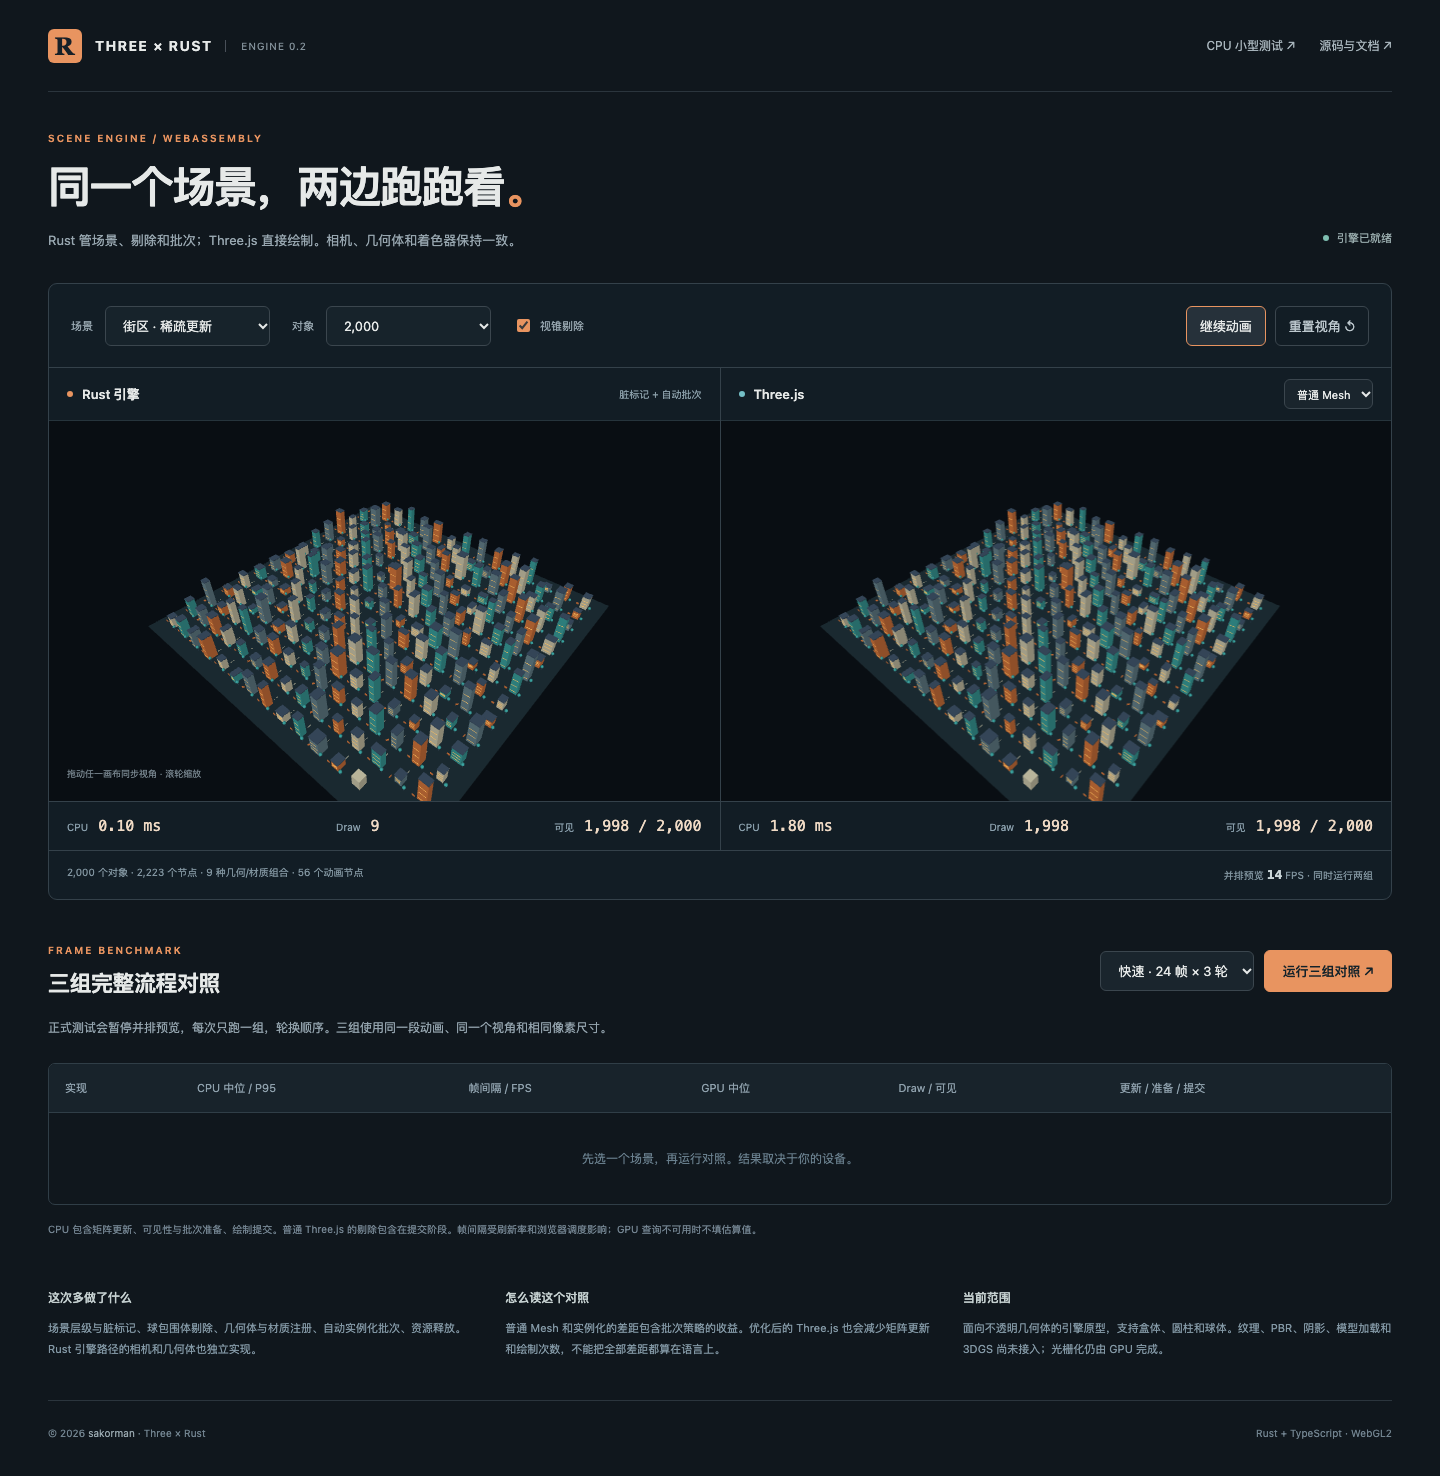
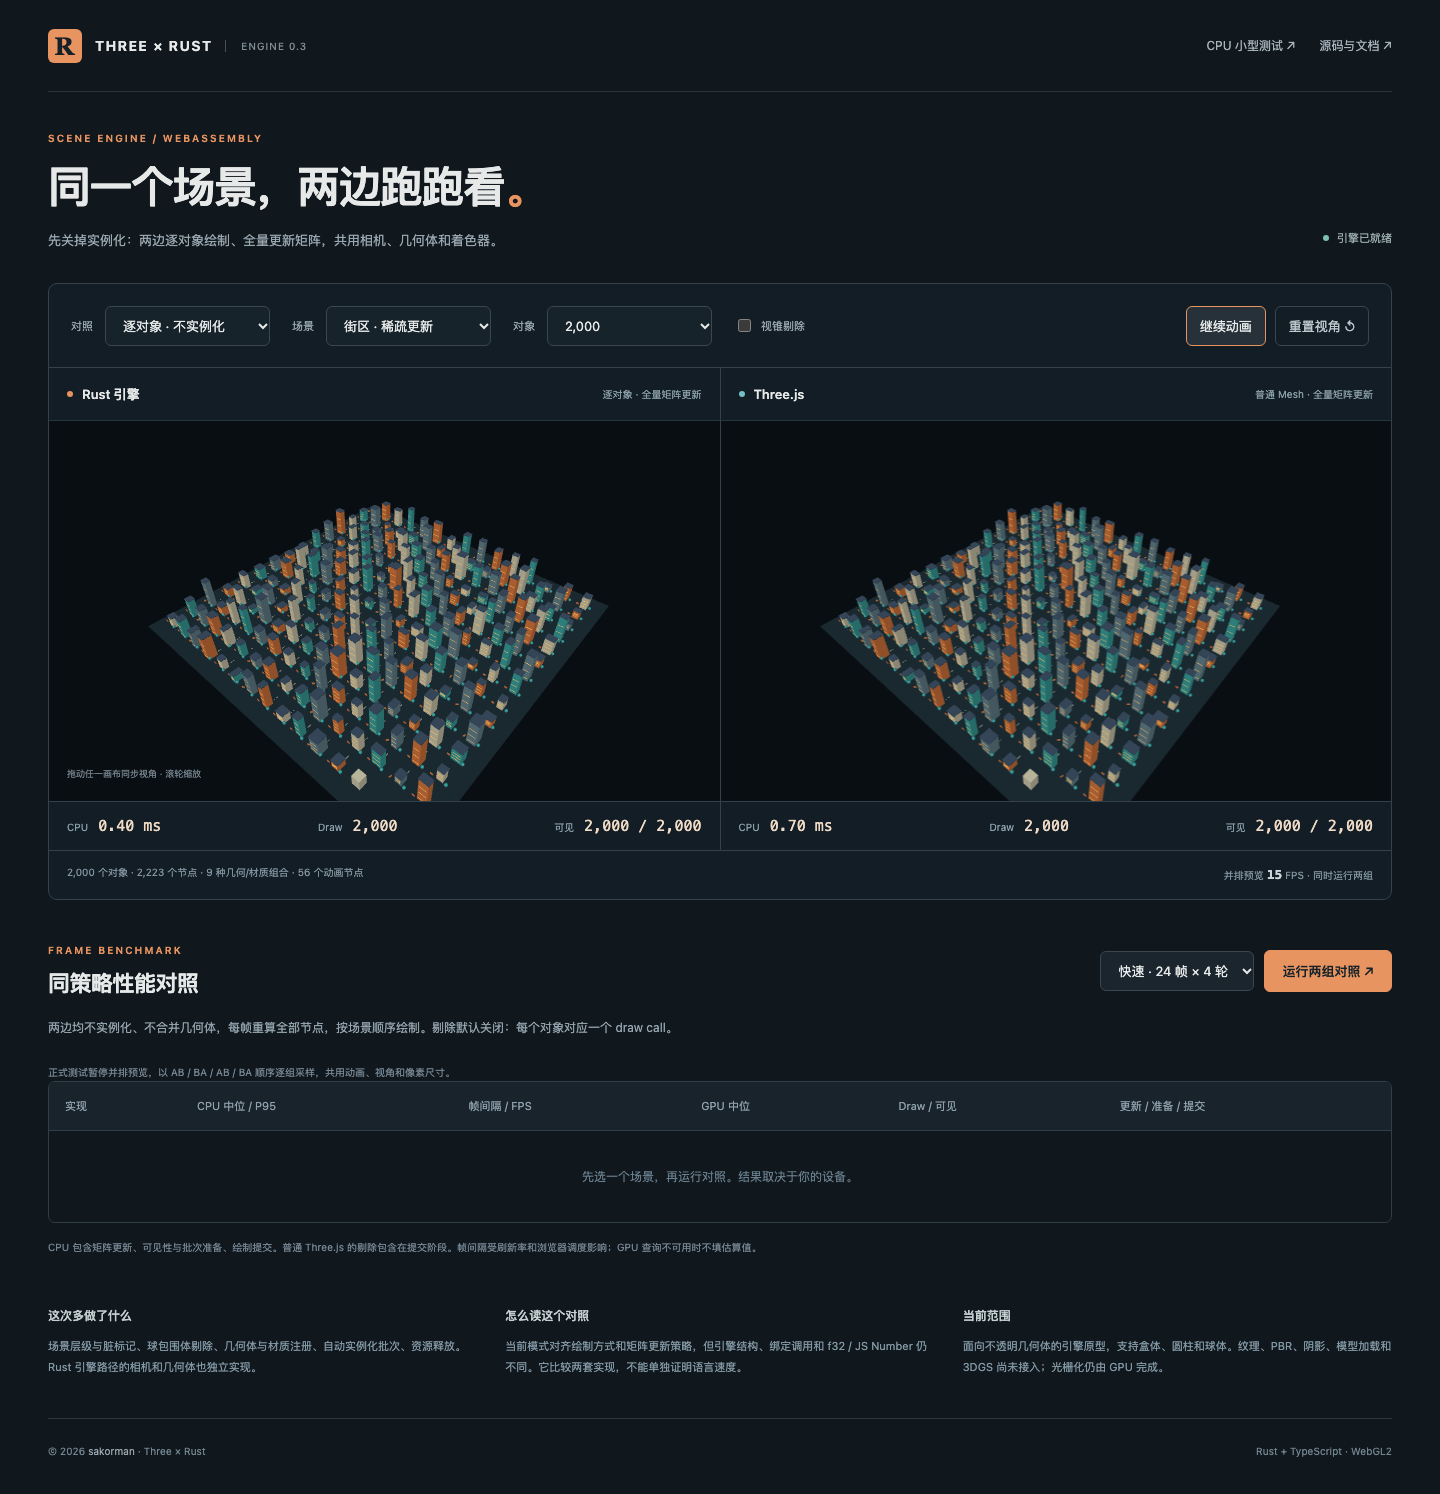
docs: explain paired benchmarks

diff --git a/README.md b/README.md
@@ -7,19 +7,19 @@
 
 一个用 Rust 和 TypeScript 写的浏览器场景引擎。Rust 编译成 WASM，负责层级更新、可见性判断、批次整理和 WebGL2 绘制提交。相机、几何体生成和 TS 接口也在仓库里，可以单独拿出来使用。
 
-首页把它和 Three.js 放在同一个场景里对照。两边同步视角，正式测试时逐组运行，避免并排预览互相抢资源。除了普通 Three.js Mesh，也保留了 InstancedMesh 优化组。
+首页默认让 Rust 和 Three.js 都逐对象绘制，不使用实例化。两边同步视角、全量更新矩阵，正式测试时逐组运行。也可以切换到“两边都实例化”的独立对照。
 
-目前是 **0.2 引擎原型**，适合研究不透明几何体场景和 CPU/GPU 分工。还没有纹理、PBR、阴影、模型加载或 3DGS，不能直接替代完整的 Three.js。
+目前是 **0.3 引擎原型**，适合研究不透明几何体场景和 CPU/GPU 分工。还没有纹理、PBR、阴影、模型加载或 3DGS，不能直接替代完整的 Three.js。
 
 ![引擎与 Three.js 场景对照](docs/demo.png)
 
 ## 现在有哪些东西
 
 - **场景图**：固定数量的节点、多根层级、改父节点、输入校验。局部变换没变化时跳过矩阵重算，父节点变化会传递给后代。
-- **渲染队列**：球包围体视锥剔除，按几何体和材质分组，将可见矩阵打包到连续内存。
-- **WebGL2 渲染器**：几何体、材质注册，一次上传矩阵，每个非空批次一次实例化绘制。深度测试、背面剔除、简单面光照和无光照颜色。
+- **渲染队列**：球包围体视锥剔除；逐对象路径保留场景顺序，实例化路径按几何体和材质打包矩阵。
+- **WebGL2 渲染器**：逐对象 `drawElements` 和实例化两条独立路径，支持深度测试、背面剔除、简单面光照和无光照颜色。
 - **TS 接口**：引擎生命周期、轨道相机、盒体/圆柱/球体生成。`web/engine/` 不导入 Three.js。
-- **场景与对照**：三个场景，500–20,000 个可绘制对象，三套实现，共享输入、相机、几何体、shader 和像素尺寸。
+- **场景与对照**：三个场景，500–20,000 个可绘制对象；不实例化、实例化两种配对测试，共享输入、相机、几何体、shader 和像素尺寸。
 - **测量**：CPU 中位数/P95、帧间隔、FPS、可用时的 GPU 查询结果、draw call、可见对象数和 JSON 原始样本。
 
 ## 三个场景
@@ -34,17 +34,20 @@
 
 拖动任一画布会同时改变两边视角。把镜头拉近后，可以观察视锥剔除对可见数量和绘制工作的影响。
 
-## 三组实现怎么比较
+## 两种对照方式
 
-| 实现 | 场景更新 | 可见性与绘制 |
+| 对照方式 | Rust | Three.js |
 | --- | --- | --- |
-| Rust 引擎 | WASM 场景图，脏矩阵更新 | Rust 球剔除、分组、实例化提交 |
-| Three.js 普通 Mesh | 常规 Object3D/Mesh 自动矩阵更新 | Three.js 内置剔除，每个可见对象一个 Mesh draw |
-| Three.js 实例化 | Object3D 关闭自动局部矩阵更新，只更新动画节点 | Three.js Frustum 检查每个对象，按同样的几何/材质组合创建 InstancedMesh |
+| **逐对象 · 不实例化（默认）** | 全量矩阵更新；逐对象上传 modelMatrix 并调用 drawElements | 普通 Mesh，开启矩阵自动更新，关闭对象排序 |
+| **实例化 · 两边优化** | 脏矩阵更新、可见矩阵打包、实例化绘制 | Object3D 脏更新、Frustum 检查、InstancedMesh |
 
-三个实现都使用实际场景层级。普通 Mesh 组直接调用 Three.js 的渲染器，没有人工添加额外计算。优化组同时减少矩阵更新和 draw call，作为更接近优化后应用的参照。
+默认模式下，两边每帧重算全部节点，剔除默认关闭，每个对象对应一个实际 draw call。Rust 不创建实例矩阵 buffer，也不使用“实例数为 1”的实例化调用。两边按预设场景顺序绘制，不做材质/深度排序，也不合并几何体。
 
-**算法和数据布局也会影响结果。** 普通 Mesh 到实例化的差距包括批次策略的收益；Rust f32 与 JS Number 的精度也不同。这里比较的是三套具体实现，不能把倍数全部归因于 Rust。
+切换到实例化对照时，两边都使用脏矩阵更新，并按相同几何体和材质组合绘制。剔除默认开启。两个模式分别测量，不把其中一边的实例化收益算进另一种实现的比较。
+
+结果输出前会逐样本核对两边可见对象和三角形数量；不实例化模式还要求两边 draw call 数等于可见对象数。工作量不同就作废本次结果。剔除可选开启，但浮点精度在边界上可能产生细微差异，遇到不一致可以关闭剔除重试。
+
+这仍然是**两套引擎实现的对照**。Rust f32、JS Number、引擎内部的数据结构和 WebGL 绑定开销仍不同，不能把测量值解读为编程语言本身的固定速度差。
 
 所有组最终都由 GPU 光栅化。Rust 渲染器只负责准备资源与提交命令。
 
@@ -87,7 +90,7 @@ canvas.width = 960;
 canvas.height = 600;
 
 const data = createEngineScene('city', 2000);
-const engine = new Engine(canvas, data);
+const engine = new Engine(canvas, data, false); // false：逐对象；true：实例化
 const camera = new OrbitCamera();
 camera.reset(data.extent);
 
@@ -109,14 +112,16 @@ request = requestAnimationFrame(frame);
 
 `Engine` 封装了资源创建、动画节点更新、队列准备和绘制。需要更细的控制时，可以直接使用生成的 `SceneGraph`、`RenderQueue` 和 `EngineRenderer` 类。它们的接口和生命周期见 [实现笔记](docs/design.md)。
 
+为保持旧代码兼容，`Engine` 第三个参数省略时仍为 `true`；首页明确传入 `false` 作为默认对照。
+
 目前节点数量、几何体和材质在一次场景生命周期内固定；更新 TRS 或父子关系可以复用场景，增删对象或更换资源时重建。类型声明由 wasm-bindgen 生成，根目录尚未作为 npm 包发布。
 
 ## 测试结果怎么看
 
-并排预览显示的是两个实现同时运行时的状态。点击“运行三组对照”后，页面暂停预览，一次只提交一个后端的绘制命令。
+并排预览显示的是两个实现同时运行时的状态。点击“运行两组对照”后，页面暂停预览，一次只提交一个后端的绘制命令。
 
-- 快速测试：每组每轮预热 8 帧，再记录 24 帧，轮换顺序跑 3 轮，每组 72 个样本。
-- 完整测试：每组每轮预热 20 帧，再记录 60 帧，共 180 个样本。
+- 快速测试：每组每轮预热 8 帧，再记录 24 帧，按 AB / BA / AB / BA 跑 4 轮，每组 96 个样本。
+- 完整测试：每组每轮预热 20 帧，再记录 60 帧，共 240 个样本。
 - 每组都从同一个动画时间序列开始，使用采样前冻结的相机、对象数量、剔除设置和画布尺寸。
 - 切到后台、改变画布尺寸或点击取消，会终止本次测试。正式测试期间禁用场景和相机操作。
 
@@ -128,11 +133,11 @@ request = requestAnimationFrame(frame);
 | Draw / 可见 | draw call 数和提交绘制的对象数 |
 | 更新 / 准备 / 提交 | CPU 三个阶段各自的中位数，不能简单相加得到总耗时中位数 |
 
-普通 Three.js 的内部剔除和列表排序发生在 `render()` 中，因此计入“提交”；Rust 和实例化组在“准备”阶段完成剔除和打包。比较总 CPU 耗时更直接。
+开启剔除时，普通 Three.js 的内部剔除发生在 `render()` 中，计入“提交”；Rust 和实例化组在“准备”阶段处理。比较总 CPU 耗时更直接。不实例化模式已关闭 Three.js 的对象排序。
 
 GPU 查询不可用时显示“不可用”，遇到 disjoint 则丢弃该组 GPU 样本。查询包围绘制提交，包括驱动提交过程中可能产生的 GPU 空闲间隔，不能把它当作纯片元着色时间。Headless Chromium 可能使用软件渲染，不适合代表真实显卡性能。
 
-JSON 报告包含全部 CPU/帧间隔样本、有效 GPU 样本、三轮顺序、浏览器、相机矩阵、对象/节点数量、画布尺寸和设置。没有预填的跑分，也不承诺 Rust 总是更快。计时器精度不足时不推算倍数。
+JSON 报告使用 schemaVersion 3，包含对照模式、是否实例化、矩阵更新策略、绘制顺序、全部样本、四轮顺序、浏览器、相机矩阵、对象/节点数量和画布尺寸。没有预填的跑分，也不承诺 Rust 总是更快。计时器精度不足时不推算倍数。
 
 原来的 JS / WASM 数学测试保留在 [CPU 小型测试](https://sakorman.github.io/three-wasm-rust/lab.html)。它只比较两套计算实现，场景矩阵测试强制重算所有节点，不使用脏标记跳过工作。
 

diff --git a/docs/verification.md b/docs/verification.md
@@ -1,5 +1,14 @@
 # 验证范围
 
+## 0.3 不实例化对照（2026-10-10）
+
+- 浏览器拦截 `drawElements`、`drawArrays` 及其实例化版本，确认不实例化模式的 500 对象用例两边每帧均为 500 次普通绘制、0 次实例化绘制。
+- 暂停动画后仍检查两边全量重算所有数据节点，避免一边使用脏标记跳过计算。
+- 三种场景分别验证不实例化和实例化两种配对，检查像素误差、工作量、JSON 模式元数据与每组 96 帧样本。
+- Rust 队列测试验证逐对象顺序不被分组打乱，并拒绝把未打包队列误用为实例化矩阵布局。
+- 非实例化基准要求 draw call 数等于可见对象数，两边逐样本可见数与三角形数一致后才输出报告。
+- 本地完整回归通过：11 项 Rust、14 项 Node、13 项浏览器测试，共 38 项；strict 类型检查、两个目标的 Clippy 和生产构建通过。
+
 ## 0.2 引擎与场景对照（2026-10-10）
 
 - 本地验收通过：10 项 Rust 测试、14 项 Node 测试（含 WASM 差分和 GPU 查询逻辑）、11 项浏览器测试，共 35 项。

diff --git a/CHANGELOG.md b/CHANGELOG.md
@@ -1,5 +1,13 @@
 # 更新记录
 
+## 2026-10-10 · 0.3.0
+
+- 新增 Rust 逐对象 drawElements 路径，不创建实例矩阵缓冲。
+- 默认对照改为两边不实例化、全量矩阵更新、场景顺序绘制，剔除默认关闭。
+- 实例化优化保留为独立的成对测试。
+- 采样采用 AB / BA 四轮，导出前核对两边绘制工作量。
+- 增加真实 WebGL 调用统计测试，验证两边每帧普通绘制数一致且实例化调用为零。
+
 ## 2026-10-10 · 0.2.0
 
 - Rust 场景图加入脏矩阵更新、父子变化传播和更新数量统计。
